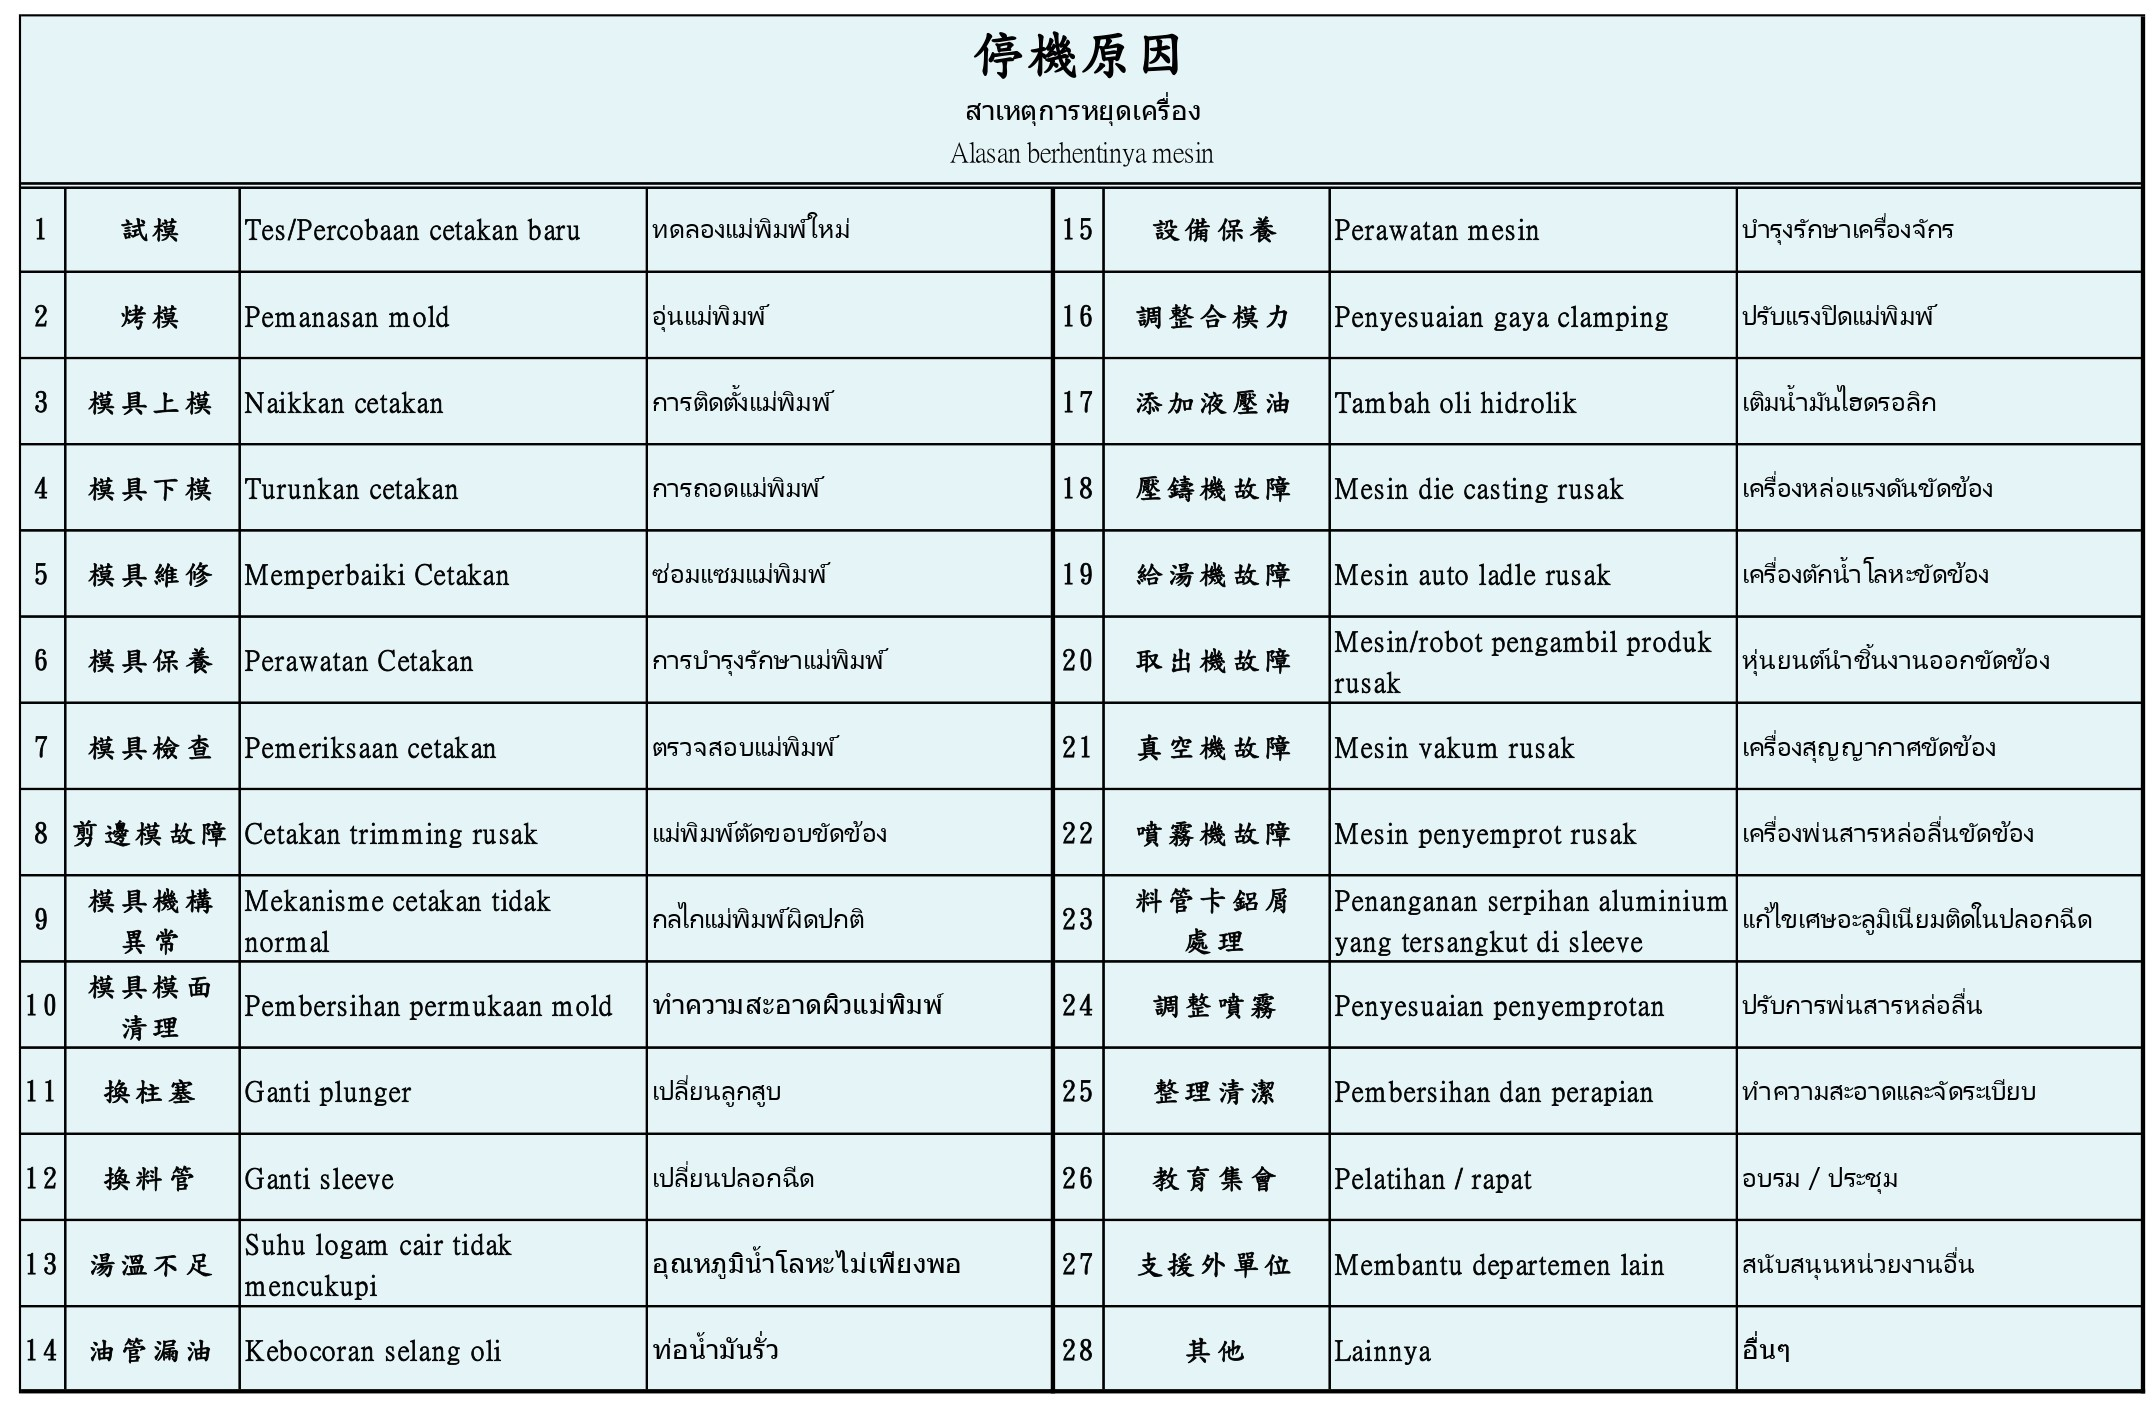
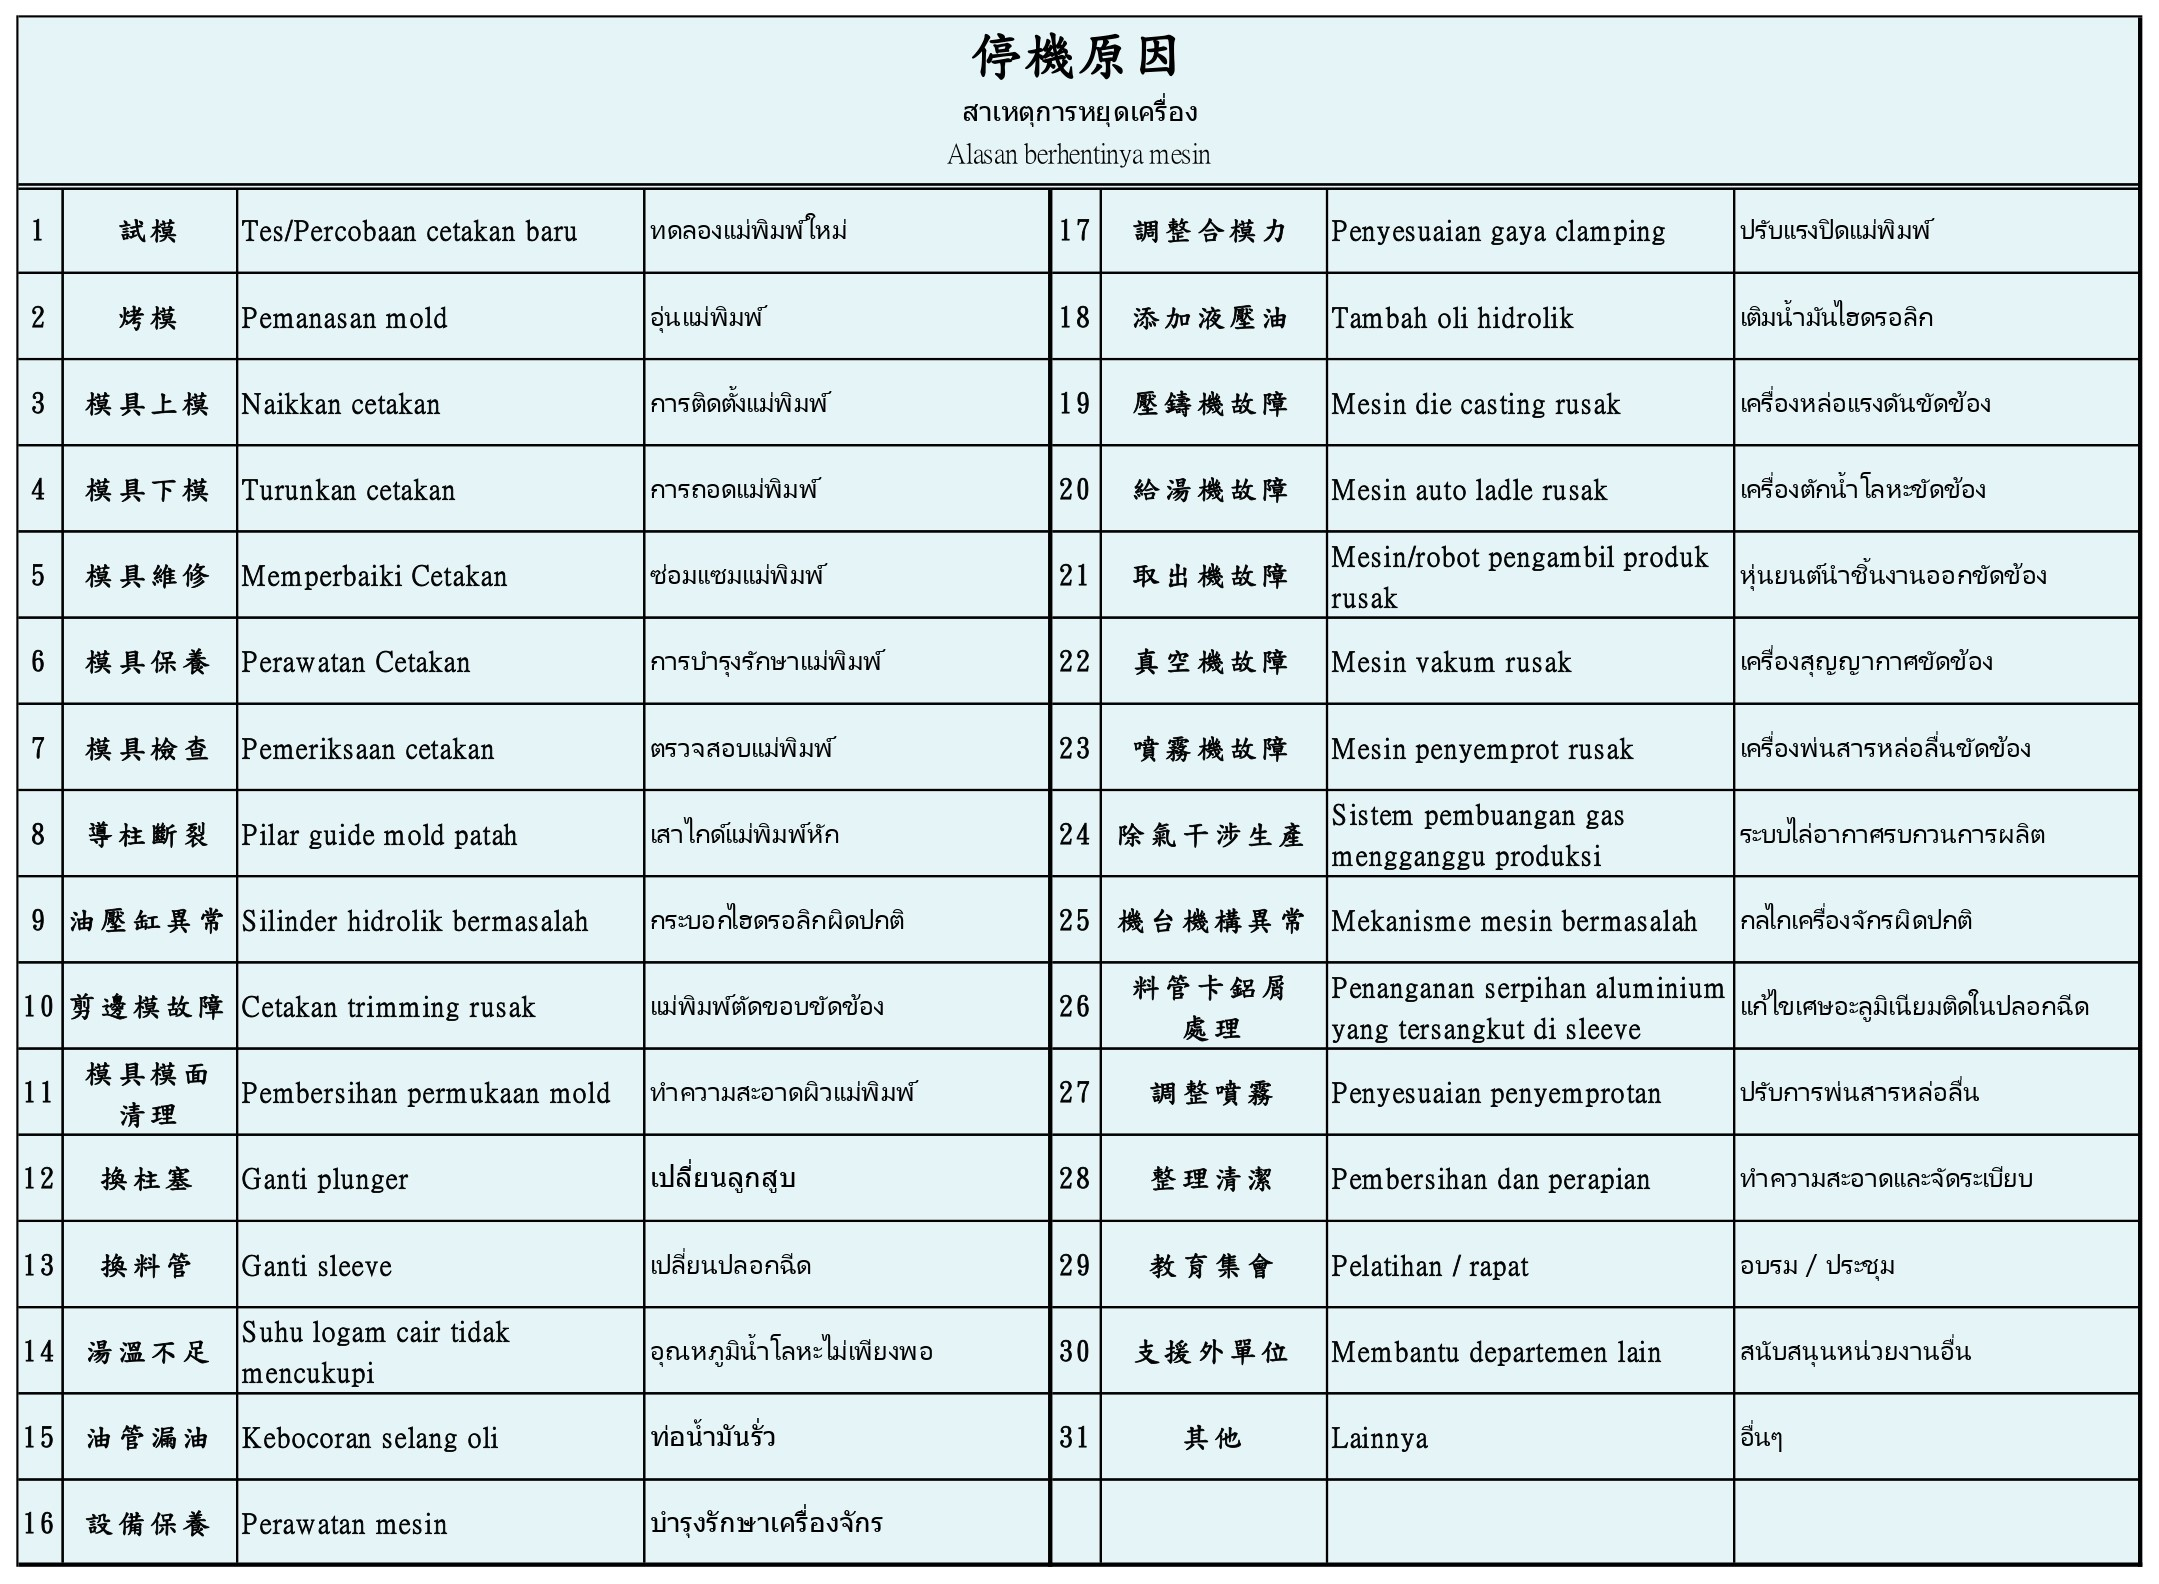
issue table revised

Changed region(s): [[0.0, 0.0, 1.0, 1.0], [0.0, 0.0, 0.0311, 0.0306]]

diff --git a/src/components/stopForm.vue b/src/components/stopForm.vue
@@ -37,16 +37,11 @@
             <div class="form-row">
               <div class="form-field">
                 <label class="form-label">{{ $t('dailysheet.stopForm.labels[3]') }}<span class="required">*</span></label>
-                <input v-model.number="local.topShot" type="number" min="0" class="form-input" :class="{ error: errors.topShot }">
-                <span v-if="errors.topShot" class="error-msg">{{ $t('dailysheet.required') }}</span>
+                <input v-model.number="local.shotCount" type="number" min="0" class="form-input" :class="{ error: errors.shotCount }">
+                <span v-if="errors.shotCount" class="error-msg">{{ $t('dailysheet.required') }}</span>
               </div>
               <div class="form-field">
-                <label class="form-label">{{ $t('dailysheet.stopForm.labels[4]') }}<span class="required">*</span></label>
-                <input v-model.number="local.botShot" type="number" min="0" class="form-input" :class="{ error: errors.botShot }">
-                <span v-if="errors.botShot" class="error-msg">{{ $t('dailysheet.required') }}</span>
-              </div>
-              <div class="form-field">
-                <label class="form-label">{{ $t('dailysheet.stopForm.labels[5]') }}</label>
+                <label class="form-label">{{ $t('dailysheet.stopForm.labels[4]') }}</label>
                 <input :value="computedTotal" type="number" class="form-input" readonly>
               </div>
             </div>
@@ -83,7 +78,7 @@
             </p>
             <div class="form-row">
               <div class="form-field">
-                <label class="form-label">{{ $t('dailysheet.stopForm.labels[6]') }}<span class="required">*</span></label>
+                <label class="form-label">{{ $t('dailysheet.stopForm.labels[5]') }}<span class="required">*</span></label>
                 <select class="form-input" v-model="local.productIssue" :class="{ error: errors.productIssue }">
                   <option value="">{{ $t('dailysheet.stopForm.select') }}</option>
                   <option value="黏膜">A</option>
@@ -106,12 +101,12 @@
                 <span v-if="errors.productIssue" class="error-msg">{{ $t('dailysheet.required') }}</span>
               </div>
               <div class="form-field">
-                <label class="form-label">{{ $t('dailysheet.stopForm.labels[7]') }}<span class="required">*</span></label>
+                <label class="form-label">{{ $t('dailysheet.stopForm.labels[6]') }}<span class="required">*</span></label>
                 <input v-model.number="local.stopNgQty" :class="{ error: errors.stopNgQty }" type="number" min="0" class="form-input">  
                 <span v-if="errors.stopNgQty" class="error-msg">{{ $t('dailysheet.required') }}</span>
               </div>
               <div class="form-field">
-                <label class="form-label">{{ $t('dailysheet.stopForm.labels[8]') }}</label>
+                <label class="form-label">{{ $t('dailysheet.stopForm.labels[7]') }}</label>
                 <input v-model.number="local.coldQty" type="number" min="0" class="form-input">  
               </div>
             </div>
@@ -148,7 +143,7 @@
           <div v-for="(item, index) in local.stopReason" :key="index" class="section-group">
             <div class="form-row">
               <div class="form-field">
-                <label class="form-label" v-if="index === 0">{{ $t('dailysheet.stopForm.labels[9]') }}<span class="required">*</span></label> 
+                <label class="form-label" v-if="index === 0">{{ $t('dailysheet.stopForm.labels[8]') }}<span class="required">*</span></label> 
                 <select class="form-input" v-model="item.stopIssue" :class="{ error: errors.stopIssue }">
 
                   <option value="">{{ $t('dailysheet.stopForm.select') }}</option>
@@ -160,24 +155,27 @@
                     <option value="模具維修">5</option>
                     <option value="模具保養">6</option>
                     <option value="模具檢查">7</option>
-                    <option value="剪邊模故障">8</option>
-                    <option value="模具機構異常">9</option>
-                    <option value="模具模面清理">10</option>
+                    <option value="導柱斷裂">8</option>
+                    <option value="油壓缸異常">9</option>
+                    <option value="剪邊模故障">10</option>
+                    <option value="模具模面清理">11</option>
                   </optgroup>
                   <optgroup :label="$t('dailysheet.stopForm.optgroups[1]')">
-                    <option value="換柱塞">11</option>
-                    <option value="換料管">12</option>
-                    <option value="湯溫不足">13</option>
-                    <option value="油管漏油">14</option>
-                    <option value="設備保養">15</option>
-                    <option value="調整合模力">16</option>
-                    <option value="添加液壓油">17</option>
-                    <option value="壓鑄機故障">18</option>
-                    <option value="給湯機故障">19</option>
-                    <option value="取出機故障">20</option>
-                    <option value="真空機故障">21</option>
-                    <option value="噴霧機故障">22</option>
-                    <option value="料管卡鋁屑處理">23</option>
+                    <option value="換柱塞">12</option>
+                    <option value="換料管">13</option>
+                    <option value="湯溫不足">14</option>
+                    <option value="油管漏油">15</option>
+                    <option value="設備保養">16</option>
+                    <option value="調整合模力">17</option>
+                    <option value="添加液壓油">18</option>
+                    <option value="壓鑄機故障">19</option>
+                    <option value="給湯機故障">20</option>
+                    <option value="取出機故障">21</option>
+                    <option value="真空機故障">22</option>
+                    <option value="噴霧機故障">23</option>
+                    <option value="除氣干涉生產">24</option>
+                    <option value="機台機構異常">25</option>
+                    <option value="料管卡鋁屑處理">26</option>
                   </optgroup>
                   <optgroup :label="$t('dailysheet.stopForm.optgroups[2]')">
                     <option value="調整噴霧">24</option>
@@ -189,7 +187,7 @@
                 </select>
               </div>
               <div class="form-field">
-                <label class="form-label" v-if="index === 0">{{ $t('dailysheet.stopForm.labels[10]') }}<span class="required">*</span></label>
+                <label class="form-label" v-if="index === 0">{{ $t('dailysheet.stopForm.labels[9]') }}<span class="required">*</span></label>
                 <input v-model.number="item.stopTime" type="number" min="0" class="form-input" :class="{ error: errors.stopTime }" placeholder="? mins">
               </div>
               <button type="button"
@@ -245,8 +243,7 @@ const createEmpty = () => ({
   batchNo: '',
   machineType: '',
   moldId: '',
-  topShot: '',
-  botShot: '',
+  shotCount: '',
   totalTime: '',
   productIssue: '',
   stopNgQty: '',
@@ -305,8 +302,7 @@ const local = reactive(props.editData ? { ...props.editData } : createEmpty())
 const errors = reactive({
   batchNo: false,
   machineType: false,
-  topShot: false,
-  botShot: false,
+  shotCount: false,
   productIssue: false,
   stopNgQty: false,
   stopIssue: false,
@@ -320,7 +316,7 @@ const computedTotal = computed(() => {
   }, 0);
 })
 
-const requiredFields = ['batchNo', 'machineType', 'topShot', 'botShot', 'productIssue', 'stopNgQty']
+const requiredFields = ['batchNo', 'machineType', 'shotCount', 'productIssue', 'stopNgQty']
 
 const validate = () => {
   let valid = true

diff --git a/src/pages/machine.vue b/src/pages/machine.vue
@@ -19,7 +19,7 @@
                     </div>
                     <div class="field-group">
                         <label class="field-label">{{ $t('machine.machineNo') }}</label> 
-                        <input type="text" class="field-input" v-model="form.machineNo" @keyup.enter="identifyParams" required>
+                        <input type="text" class="field-input" v-model="form.machineNo" @blur="identifyParams" required>
                     </div>
                     <div class="field-group">
                         <label class="field-label">{{ $t('machine.batchNo') }}</label>
@@ -250,6 +250,7 @@ const resetform = () => {
 
     fileInput.value.value = '';
     fileError.value = '';
+    checkParams.value = true;
 }
 
 //value assignment
@@ -266,18 +267,18 @@ const issueType = computed(() => [
 ])
 
 //setting parameters block display or not
+const allowMachine = [
+  'DIE-011',
+  'DIE-012',
+  'DIE-014',
+  'DIE-015',
+  'DIE-016',
+  'DIE-017'
+]
+
 function identifyParams()
 {
-    if(form.machineNo == 'DIE-011' || form.machineNo == 'DIE-012' || form.machineNo == 'DIE-014' ||
-       form.machineNo == 'DIE-015' || form.machineNo == 'DIE-016' || form.machineNo == 'DIE-017'
-    )
-    {
-        checkParams.value = false;
-    }
-    else
-    {
-        checkParams.value = true;
-    }
+    checkParams.value = !allowMachine.includes(form.machineNo)
 }
 
 //file processing
